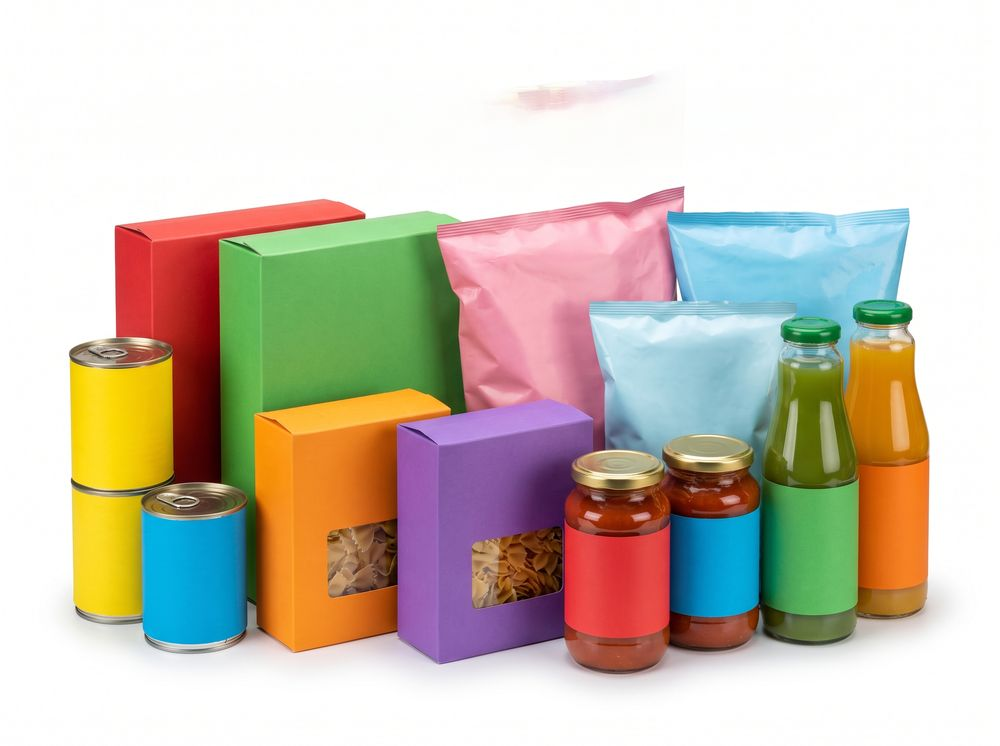
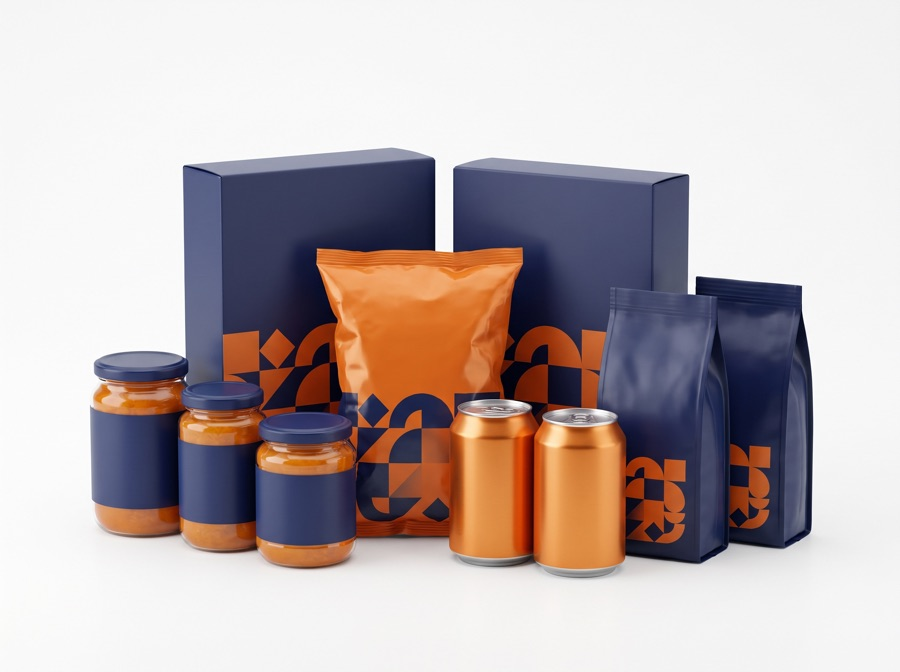
Deals page graphics rebuilt from scratch: 4 new brand-styled department still lifes

diff --git a/deals.html b/deals.html
@@ -3738,7 +3738,7 @@
         </div>
         <div class="dealrow dz-blue" id="ladders" style="scroll-margin-top: 110px">
           <div class="dimg">
-            <img src="mrbins-cart-poster.jpg" alt="General Bin Items" loading="lazy" />
+            <img src="mrbins-dept-bins.jpg" alt="General Bin Items" loading="lazy" />
           </div>
           <div class="dlabel">
             <h3>General Bin Items</h3>
@@ -3759,7 +3759,7 @@
           </div>
         </div>
         <div class="dealrow dz-green">
-          <div class="dimg"><img src="mrbins-shoes-poster.jpg" alt="Shoes" loading="lazy" /></div>
+          <div class="dimg"><img src="mrbins-dept-shoes.jpg" alt="Shoes" loading="lazy" /></div>
           <div class="dlabel">
             <h3>Shoes</h3>
             <div class="restock">New stock every Friday!</div>
@@ -3780,7 +3780,7 @@
         </div>
         <div class="dealrow dz-purple">
           <div class="dimg">
-            <img src="mrbins-clothes-poster.jpg" alt="Clothing" loading="lazy" />
+            <img src="mrbins-dept-clothes.jpg" alt="Clothing" loading="lazy" />
           </div>
           <div class="dlabel">
             <h3>Clothing</h3>
@@ -4466,7 +4466,7 @@
           "mrbins-prod-speaker.jpg",
           "mrbins-prod-coffee.jpg",
           "mrbins-prod-lego.jpg",
-          "mrbins-shoes-poster.jpg",
+          "mrbins-dept-shoes.jpg",
           "mrbins-lamp.png",
           "mrbins-feat-bike.jpg",
           "mrbins-feat-clothes.jpg",
@@ -4641,7 +4641,7 @@
           "Everything below is <b>" + todayP + " today.</b> Tomorrow it drops another dollar.";
         var items = [
           ["Audio", "Sony Wireless Headphones", "$98", "mrbins-prod-head.jpg"],
-          ["Footwear", "Nike Running Sneakers", "$110", "mrbins-shoes-poster.jpg"],
+          ["Footwear", "Nike Running Sneakers", "$110", "mrbins-dept-shoes.jpg"],
           ["Kitchen", "Keurig Coffee Maker", "$99", "mrbins-prod-coffee.jpg"],
           ["Toys", "LEGO City Set", "$79", "mrbins-prod-lego.jpg"],
           ["Audio", "JBL Bluetooth Speaker", "$89", "mrbins-prod-speaker.jpg"],
